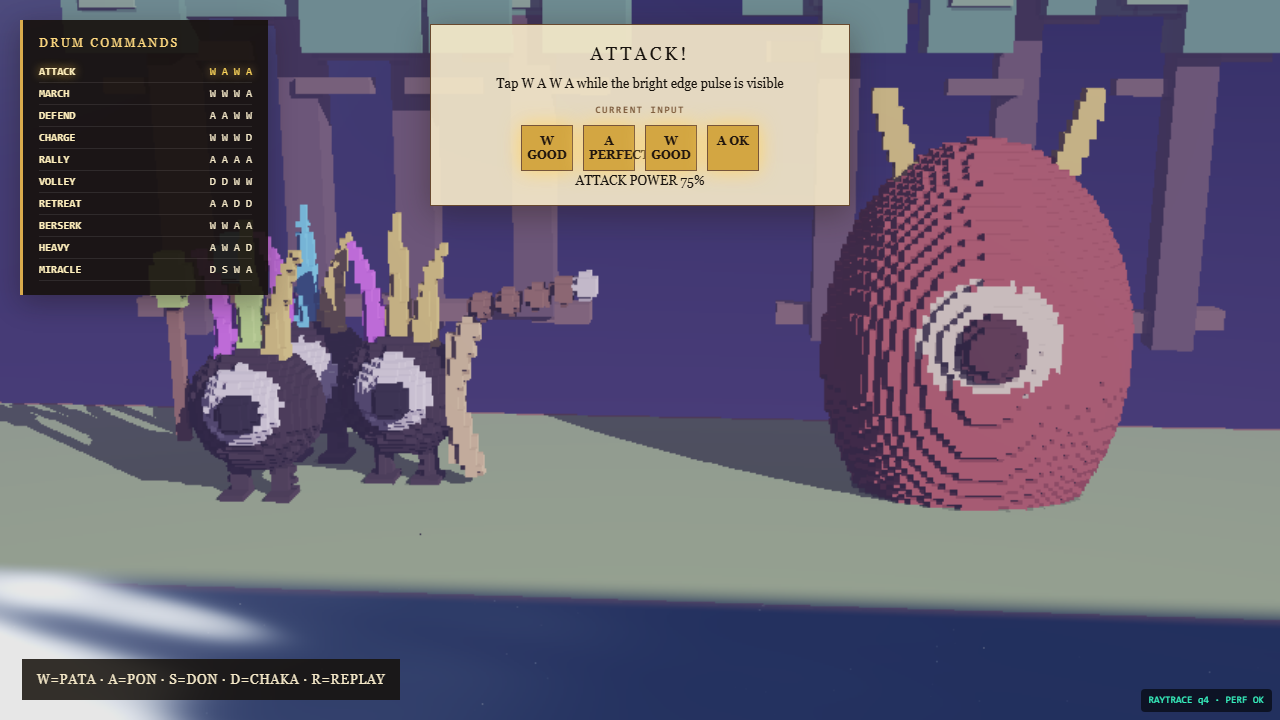
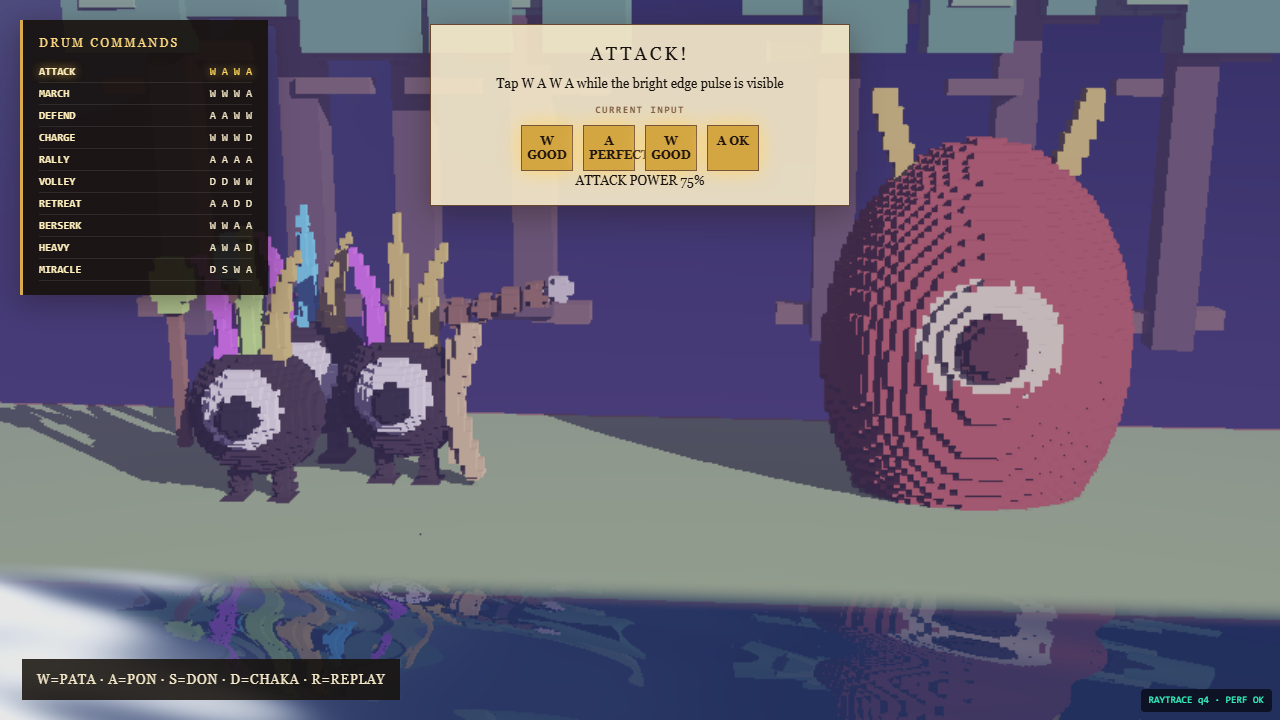
feat(6p3d): PBR GGX shading + ray-traced 1-bounce GI for voxels
- Cook-Torrance GGX (metalness workflow) replaces Blinn-Phong; sun
  irradiance x9.0 compensates the 1/pi diffuse term
- single-bounce GI: 3 deterministic cosine-lobe rays marched through the
  two-level DDA; hit -> cheap bounce shading, miss -> sky/mountains;
  AO-modulated, metalness-attenuated; uGiTaps=0 at quality level 4+
- fix intermittent exact-black speckle: unroll the GI tap loop (dynamic-
  break loop nesting DDA marches miscompiled on SwiftShader) and guard
  normalize() degenerates (shadow tangent n||sun, half-vector V==-sun)
- governor ceiling raised to level 7 (upload throttle last resort)

diff --git a/6_patapon3D/src/engine/raytrace/VoxelRaycaster.ts b/6_patapon3D/src/engine/raytrace/VoxelRaycaster.ts
@@ -266,6 +266,7 @@ uniform float uMoonIntensity;
 uniform float uAmbientScale;
 uniform float uSkyExposure;
 uniform int uShadowTaps;
+uniform int uGiTaps;
 uniform float uTime;
 uniform float uWaterY;
 uniform float uWaveAmp;
@@ -479,23 +480,58 @@ vec3 mountainColor(vec3 ro, vec3 rd, out float tHit) {
   return result;
 }
 
-vec3 shadeGrid(Hit h, vec3 ro, vec3 rd) {
-  vec3 p = ro + rd * h.t;
+// ─── PBR(Cook-Torrance GGX)工具 ───
+vec3 backgroundColor(vec3 ro, vec3 rd); // 前向声明(GI miss 用,定义在后方)
+
+float ggxD(float ndh, float rough) {
+  float a2 = rough * rough * rough * rough;
+  float d = ndh * ndh * (a2 - 1.0) + 1.0;
+  return a2 / max(3.14159 * d * d, 1e-5);
+}
+float smithG(float ndv, float ndl, float rough) {
+  float k = (rough + 1.0) * (rough + 1.0) * 0.125;
+  return (ndv / (ndv * (1.0 - k) + k)) * (ndl / (ndl * (1.0 - k) + k));
+}
+vec3 fresnelSchlick(float vdh, vec3 f0) {
+  return f0 + (1.0 - f0) * pow(1.0 - vdh, 5.0);
+}
+
+vec3 faceNormal(Hit h, vec3 rd) {
   vec3 n = vec3(0.0);
   if (h.axis == 0) n.x = -sign(rd.x);
   else if (h.axis == 1) n.y = -sign(rd.y);
   else n.z = -sign(rd.z);
+  return n;
+}
+
+vec3 hemiAmbient(vec3 n) {
+  return mix(vec3(0.06, 0.05, 0.11), vec3(0.16, 0.15, 0.24), n.y * 0.5 + 0.5) * uAmbientScale;
+}
+
+// 间接光二次命中的廉价着色(无阴影/无高光,只保留太阳直射 + 半球环境)
+vec3 bounceShade(Hit h, vec3 rd) {
+  vec3 n = faceNormal(h, rd);
+  vec3 albedo = uAlbedo[h.id].rgb;
+  float dif = max(dot(n, uSunDir), 0.0);
+  vec3 col = albedo * (uSunColor * (3.0 * dif) + hemiAmbient(n));
+  float fogF = 1.0 - exp(-h.t * 0.012);
+  return mix(col, vec3(0.16, 0.12, 0.28) * uSkyExposure, fogF);
+}
+
+vec3 shadeGrid(Hit h, vec3 ro, vec3 rd) {
+  vec3 p = ro + rd * h.t;
+  vec3 n = faceNormal(h, rd);
 
   int id = h.id;
   vec3 albedo = uAlbedo[id].rgb;
-  float rough = uAlbedo[id].a;
+  float rough = max(uAlbedo[id].a, 0.05);
   float metal = uMeta[id].x;
   float spec = uMeta[id].y;
 
   // 太阳软阴影:固定太阳圆盘采样(默认 5-tap,降级 1-tap)。禁止逐像素随机抖动,避免静态颗粒噪声。
   vec3 sun = uSunDir;
-  vec3 b1 = normalize(cross(n, sun));
-  if (length(b1) < 1e-3) b1 = vec3(0.0, 1.0, 0.0);
+  vec3 cns = cross(n, sun); // 先判退化再 normalize:n ∥ sun 时 normalize(0)=NaN
+  vec3 b1 = length(cns) < 1e-3 ? vec3(0.0, 1.0, 0.0) : normalize(cns);
   vec3 b2 = cross(sun, b1);
   float sh = 0.0;
   const vec2 sunDisk[5] = vec2[5](
@@ -521,19 +557,49 @@ vec3 shadeGrid(Hit h, vec3 ro, vec3 rd) {
   if (voxel(h.cell + nv + ivec3(0, 0, 1)) != EMPTY) occ += 0.35;
   float ao = 1.0 - min(occ, 1.0);
 
-  float dif = max(dot(n, sun), 0.0);
-  vec3 ambient = mix(vec3(0.06, 0.05, 0.11), vec3(0.16, 0.15, 0.24), n.y * 0.5 + 0.5) * uAmbientScale;
-  vec3 col = albedo * (uSunColor * (3.0 * dif * sh) + ambient) * ao;
+  // ─── 直接光:Cook-Torrance GGX(金属度工作流)───
+  vec3 V = -rd;
+  vec3 hv = V + sun; // V ≈ -sun 时 normalize(0)=NaN → 高光 NaN 黑斑;先钳长度
+  hv = length(hv) < 1e-3 ? n : normalize(hv);
+  float ndl = max(dot(n, sun), 0.0);
+  float ndv = max(dot(n, V), 1e-3);
+  float ndh = max(dot(n, hv), 0.0);
+  float vdh = max(dot(V, hv), 0.0);
+  vec3 F0 = mix(vec3(0.04), albedo, metal);
+  vec3 F = fresnelSchlick(vdh, F0);
+  vec3 specC = (ggxD(ndh, rough) * smithG(ndv, max(ndl, 1e-3), rough) * F) / max(4.0 * ndv * ndl, 1e-4);
+  vec3 diffC = (vec3(1.0) - F) * (1.0 - metal) * albedo * 0.31831;
+  // 漫反射含 1/π → 太阳辐照放大 3π 以维持原曝光
+  vec3 col = (diffC + specC * max(spec, 0.05)) * uSunColor * (9.0 * ndl * sh);
 
-  // Blinn-Phong 高光(玻璃眼 / 鼓垫 / 金角)
-  if (spec > 0.01 && dif > 0.0) {
-    vec3 hv = normalize(sun - rd);
-    float ndh = max(dot(n, hv), 0.0);
-    float shin = 4.0 + (1.0 - rough) * 60.0;
-    vec3 scol = mix(vec3(1.0), albedo, metal);
-    col += scol * spec * pow(ndh, shin) * sh * uSunColor * 1.8;
+  // ─── 间接光:单反弹 GI(3 条确定性余弦瓣次级光线,DDA 追踪)───
+  // 命中 → 反弹面廉价着色;未命中 → 天空/远山。方向固定(绕法线 120° 分布),
+  // 不做逐像素抖动:静态相机下画面稳定无颗粒。
+  // 注:3 tap 手工展开(非 for 循环)—— 嵌套 DDA 的动态 break 循环会让
+  // SwiftShader 编译出的超大 CFG 出错(黑斑回归的根因),展开后正常。
+  vec3 gi = vec3(0.0);
+  if (uGiTaps > 0) {
+    vec3 up = abs(n.y) < 0.94 ? vec3(0.0, 1.0, 0.0) : vec3(1.0, 0.0, 0.0);
+    vec3 t1 = normalize(cross(n, up));
+    vec3 t2 = cross(n, t1);
+    vec3 gp = p + n * 0.06;
+    vec3 d0 = normalize(t1 * 0.7071 + n * 0.7071);
+    vec3 d1 = normalize(t1 * -0.3536 + n * 0.7071 + t2 * 0.6124);
+    vec3 d2 = normalize(t1 * -0.3536 + n * 0.7071 - t2 * 0.6124);
+    Hit g0 = marchGrid(gp, d0);
+    Hit g1 = marchGrid(gp, d1);
+    Hit g2 = marchGrid(gp, d2);
+    gi += (g0.hit && g0.t < 40.0) ? bounceShade(g0, d0) : backgroundColor(p, d0);
+    gi += (g1.hit && g1.t < 40.0) ? bounceShade(g1, d1) : backgroundColor(p, d1);
+    gi += (g2.hit && g2.t < 40.0) ? bounceShade(g2, d2) : backgroundColor(p, d2);
+    gi /= 3.0;
   }
-  // 玻璃材质:反射方向取一次天空色(廉价 env)
+
+  // 半球环境 + 单反弹 GI(AO 调制;漫反射部分受金属度衰减)
+  col += albedo * (1.0 - metal * 0.7) * hemiAmbient(n) * ao;
+  col += albedo * (1.0 - metal) * gi * 0.6 * ao;
+
+  // 玻璃材质:反射方向取一次天空色(廉价 env,眼球/鼓面的镜面通透感)
   if (spec > 0.5) {
     vec3 rv = reflect(rd, n);
     col += albedo * skyColor(rv) * (spec - 0.5) * 0.35;
@@ -682,6 +748,7 @@ interface RayUniforms {
   uAmbientScale: { value: number };
   uSkyExposure: { value: number };
   uShadowTaps: { value: number };
+  uGiTaps: { value: number };
   uTime: { value: number };
   uWaterY: { value: number };
   uWaveAmp: { value: number };
@@ -767,6 +834,7 @@ export class VoxelRaycaster {
       uAmbientScale: { value: 1 },
       uSkyExposure: { value: 1 },
       uShadowTaps: { value: 5 },
+      uGiTaps: { value: 3 },
       uTime: { value: 0 },
       uWaterY: { value: -1.6 },
       uWaveAmp: { value: 0.055 },
@@ -851,6 +919,11 @@ export class VoxelRaycaster {
   /** 软阴影 tap 数:5(基线)或 1(降级) */
   setShadowTaps(taps: 5 | 1): void {
     this.uniforms.uShadowTaps.value = taps;
+  }
+
+  /** GI 次级光线数:3(单反弹间接光)或 0(降级关闭) */
+  setGiTaps(taps: 0 | 3): void {
+    this.uniforms.uGiTaps.value = taps;
   }
 
   /** 水面降级:reflQuality 0 = 只反射天空/远山(跳过体素 DDA);waveLayers 1 = 单层波 */

diff --git a/6_patapon3D/src/engine/raytrace/RaytraceAdapter.ts b/6_patapon3D/src/engine/raytrace/RaytraceAdapter.ts
@@ -6,13 +6,14 @@
  *
  * 质量阶梯(setQuality level;视觉破坏性低的在前 —— 水面与动画
  * 流畅度尽量保留,超范围由引擎换成 raster 适配器):
- *   0:全质量(scale 1.0,5-tap 阴影,逐帧上传)
+ *   0:全质量(scale 1.0,5-tap 阴影,3-tap GI,逐帧上传)
  *   1:内部渲染分辨率 0.8
  *   2:内部渲染分辨率 0.66
  *   3:阴影 5-tap → 1-tap
- *   4:水面反射降质(跳过体素 DDA,只反射天空/远山)
- *   5:水面波浪 3→1 层
- *   6:动态网格隔帧上传(动画会跳帧,最后手段)
+ *   4:单反弹 GI 关闭
+ *   5:水面反射降质(跳过体素 DDA,只反射天空/远山)
+ *   6:水面波浪 3→1 层
+ *   7:动态网格隔帧上传(动画会跳帧,最后手段)
  */
 
 import * as THREE from 'three';
@@ -69,13 +70,14 @@ export class RaytraceAdapter<TSnapshot> implements SceneRenderer<TSnapshot> {
   }
 
   setQuality(level: number): void {
-    this.qualityLevel = Math.max(0, Math.min(6, Math.floor(level)));
+    this.qualityLevel = Math.max(0, Math.min(7, Math.floor(level)));
     const l = this.qualityLevel;
     this.renderScale = l >= 2 ? 0.66 : l >= 1 ? 0.8 : 1.0;
-    // level 3:阴影先降;level 4:水面反射降质;level 5:波浪再降为单层
+    // level 3:阴影先降;level 4:GI 关闭;level 5:水面反射降质;level 6:波浪单层
     this.raycaster.setShadowTaps(l >= 3 ? 1 : 5);
-    this.raycaster.setWaterQuality(l >= 4 ? 0 : 1, l >= 5 ? 1 : 3);
-    this.raycaster.setDynamicUploadInterval(l >= 6 ? 2 : 1);
+    this.raycaster.setGiTaps(l >= 4 ? 0 : 3);
+    this.raycaster.setWaterQuality(l >= 5 ? 0 : 1, l >= 6 ? 1 : 3);
+    this.raycaster.setDynamicUploadInterval(l >= 7 ? 2 : 1);
     this.applySize();
   }
 

diff --git a/6_patapon3D/src/engine/IntroEngine.ts b/6_patapon3D/src/engine/IntroEngine.ts
@@ -144,8 +144,8 @@ export class IntroEngine {
         this.frameMsEma = this.frameMsEma === 0 ? frameMs : this.frameMsEma * 0.9 + frameMs * 0.1;
         if (++this.framesSinceEval >= 15) {
           this.framesSinceEval = 0;
-          if (this.frameMsEma > 55 && this.qualityLevel < 6) {
-            this.qualityLevel = Math.min(6, this.qualityLevel + (this.frameMsEma > 140 ? 2 : 1));
+          if (this.frameMsEma > 55 && this.qualityLevel < 7) {
+            this.qualityLevel = Math.min(7, this.qualityLevel + (this.frameMsEma > 140 ? 2 : 1));
             this.calmEvals = 0;
             this.adapter?.setQuality(this.qualityLevel);
             usePatapongStore.setState({ qualityLevel: this.qualityLevel });
